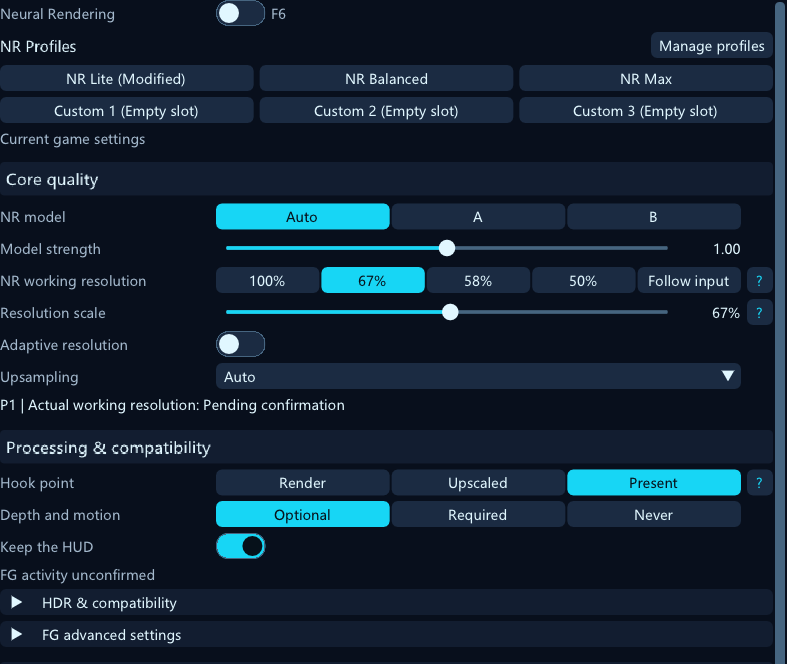
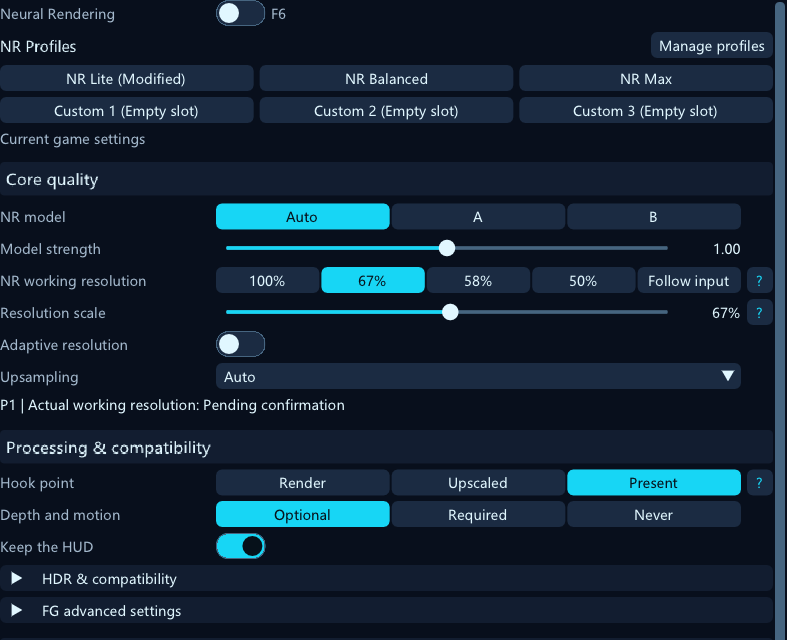
Simplify FG status and center summary metrics

diff --git a/tests/adaptive_ui_cases.hpp b/tests/adaptive_ui_cases.hpp
@@ -89,11 +89,19 @@
     check(locate("153").Min.y > fps.Min.y && locate("6.6ms").Min.y > gpu.Min.y
               && locate("4x").Min.y > fg.Min.y,
           "each compact metric places its value on the second line");
+    check(std::abs(locate("153").GetCenter().x - fps.GetCenter().x) < 1.f
+              && std::abs(locate("6.6ms").GetCenter().x - gpu.GetCenter().x) < 1.f
+              && std::abs(locate("4x").GetCenter().x - fg.GetCenter().x) < 1.f,
+          "metric labels and values share each column's center");
     if (width >= 340.f) {
       check(fps.Min.x < gpu.Min.x && gpu.Min.x < fg.Min.x && std::abs(fps.Min.y - fg.Min.y) < 1.f,
             "wide and game-sized 340 px status fit three ordered metric columns");
+      const auto first = std::ranges::find_if(rendered_text, [](const auto& item) { return item.text == "FPS"; });
+      const auto& content = first->window->WorkRect;
+      check(std::abs((fps.GetCenter().x - content.Min.x) - (content.Max.x - fg.GetCenter().x)) < 1.f,
+            "three metric columns leave symmetric space at the content edges");
     } else {
-      check(fps.Min.x < gpu.Min.x && std::abs(fps.Min.x - fg.Min.x) < 1.f && fg.Min.y > fps.Min.y,
+      check(fps.Min.x < gpu.Min.x && std::abs(fps.GetCenter().x - fg.GetCenter().x) < 1.f && fg.Min.y > fps.Min.y,
             "narrow status wraps the third metric onto a second row");
     }
   }
@@ -131,6 +139,35 @@
       .observed_multiplier = 3.99});
   check(observed.fg == "4x" && observed.fps == "153", "observed near-integer FG and output FPS share concise values");
   check(observed.fg_tip.find("Observed") != std::string::npos, "FG estimation and source details remain discoverable in its tooltip");
+  const auto saved_route = runtime::ui_fg_route;
+  const auto saved_hook = runtime::hook_point.load();
+  const bool saved_vulkan = runtime::vulkan_present_seen.load();
+  const bool saved_unusable = runtime::present_unusable.load();
+  runtime::hook_point = runtime::kHookPresent;
+  runtime::vulkan_present_seen = false;
+  runtime::present_unusable = false;
+  runtime::ui_fg_route.route = ui::FgRoute::kBeforeFg;
+  runtime::ui_fg_route.previous.multiplier = 1;
+  fg_route_fixture = true;
+  frame(); frame();
+  check(rendered_text.empty(), "normal Pre-FG route adds no duplicate status row beside the shared SDK FG value");
+  fg_route_detailed = true;
+  frame(); frame();
+  check(std::ranges::any_of(rendered_text, [](const auto& item) { return item.text == ui::Tr(ui::text::kFgBefore); })
+            && std::ranges::none_of(rendered_text, [](const auto& item) {
+              return item.text == ui::Tr(ui::text::kFgBeforeUnknown) || item.text == ui::Tr(ui::text::kFgUnknownMultiplierTip);
+            }),
+        "detailed Pre-FG diagnostics retain the route without contradicting reliable SDK multiplier evidence");
+  runtime::ui_fg_route.route = ui::FgRoute::kFallbackPresent;
+  fg_route_detailed = false;
+  frame(); frame();
+  check(std::ranges::any_of(rendered_text, [](const auto& item) { return item.text == ui::Tr(ui::text::kFgFallbackShort); }),
+        "compact Pre-FG fallback warnings remain visible");
+  fg_route_fixture = false;
+  runtime::ui_fg_route = saved_route;
+  runtime::hook_point = saved_hook;
+  runtime::vulkan_present_seen = saved_vulkan;
+  runtime::present_unusable = saved_unusable;
   {
     std::unique_lock lock(rate::internal::state.mutex);
     rate::internal::state.stream = saved_stream;

diff --git a/dlssnr.hpp b/dlssnr.hpp
@@ -25261,14 +25261,12 @@ inline bool SavePresentRestoreScope(present_restore_scope::Scope scope) {
   return true;
 }
 
-// A stable single line carries the conclusion; full explanations are available
-// on hover and in Diagnostics. Multi-Pass normally needs only the cost reminder.
+// The shared summary shows FG state. Keep route warnings, diagnostic details,
+// and the multi-pass cost reminder beside the execution controls.
 inline void DrawFgRoute(bool stacking = false, bool detailed = false) {
   const auto route = ui_fg_route.route;
-  const bool declared = fg::xefg::OwnsStream()
-                        || native_fg_declaration.load() == NativeFgDeclaration::kOn;
   const char* message = ui::text::kFgUnknown;
-  const char* brief = declared ? ui::text::kFgDeclared : ui::text::kFgStatusUnknown;
+  const char* brief = ui::text::kFgStatusUnknown;
   bool warning = false;
   if (hook_point.load() != kHookPresent) {
     message = ui::text::kFgOtherStage;
@@ -25276,7 +25274,6 @@ inline void DrawFgRoute(bool stacking = false, bool detailed = false) {
     switch (route) {
       case ui::FgRoute::kBeforeFg:
         message = ui::text::kFgBefore;
-        brief = ui_fg_route.previous.multiplier > 1 ? ui::text::kFgBeforeShort : ui::text::kFgBeforeUnknown;
         break;
       case ui::FgRoute::kEveryPresent:
         message = ui::text::kFgEvery;
@@ -25318,23 +25315,21 @@ inline void DrawFgRoute(bool stacking = false, bool detailed = false) {
   if (stacking && !warning) {
     brief = ui::text::kStackCost;
   }
+  // The shared summary owns FG state and multiplier; keep route warnings and
+  // multi-pass cost guidance here without a second multiplier verdict.
+  if (!detailed && !warning && !stacking) {
+    return;
+  }
   ImGui::PushID("fg_route");
   ui::StyleScope tone;
   tone.Color(ImGuiCol_Text, warning ? ui::CurrentTheme().warn : ui::CurrentTheme().text_secondary);
   if (detailed) {
     ImGui::TextWrapped("%s", ui::Tr(message));
-    if (ui_fg_route.previous.multiplier <= 1 && (declared || route == ui::FgRoute::kBeforeFg)) {
-      ImGui::TextWrapped("%s", ui::Tr(ui::text::kFgUnknownMultiplierTip));
-    }
   } else {
     const bool link = warning && ImGui::GetContentRegionAvail().x > ImGui::GetFontSize() * 16.f;
     const float reserve = link ? ImGui::CalcTextSize(ui::Tr(ui::text::kDiagnostics)).x + ImGui::GetStyle().ItemSpacing.x : 0.f;
     ImGui::TextUnformatted(ui::Ellipsize(ui::Tr(brief), ImGui::GetContentRegionAvail().x - reserve).c_str());
-    if (ui_fg_route.previous.multiplier <= 1) {
-      ui::ItemTooltip("%s\n%s", ui::Tr(message), ui::Tr(ui::text::kFgUnknownMultiplierTip));
-    } else {
-      ui::ItemTooltip("%s", ui::Tr(message));
-    }
+    ui::ItemTooltip("%s", ui::Tr(message));
     if (link) {
       ImGui::SameLine();
       if (ImGui::TextLink(ui::Tr(ui::text::kDiagnostics))) {

diff --git a/ui/widgets.hpp b/ui/widgets.hpp
@@ -239,9 +239,14 @@ struct StatusSummaryFields {
 };
 
 inline void DrawSummaryMetric(const char* label, const std::string& value, const char* tip, float width) {
+  const float left = ImGui::GetCursorPosX();
+  const auto title = Ellipsize(Tr(label), width);
+  const auto value_text = Ellipsize(value.empty() ? "—" : value.c_str(), width);
   ImGui::BeginGroup();
-  ImGui::TextUnformatted(Ellipsize(Tr(label), width).c_str());
-  ImGui::TextUnformatted(Ellipsize(value.empty() ? "—" : value.c_str(), width).c_str());
+  ImGui::SetCursorPosX(left + (width - ImGui::CalcTextSize(title.c_str()).x) * .5f);
+  ImGui::TextUnformatted(title.c_str());
+  ImGui::SetCursorPosX(left + (width - ImGui::CalcTextSize(value_text.c_str()).x) * .5f);
+  ImGui::TextUnformatted(value_text.c_str());
   ImGui::EndGroup();
   ItemTooltip("%s\n%s", Tr(label), tip != nullptr ? Tr(tip) : "");
 }

diff --git a/tests/ui_menu_tests.cpp b/tests/ui_menu_tests.cpp
@@ -450,6 +450,8 @@ int main() {
     bool adaptive_editor_fixture = false;
     bool adaptive_pass_fixture = false;
     bool summary_fixture = false;
+    bool fg_route_fixture = false;
+    bool fg_route_detailed = false;
     ui::StatusSummaryFields summary_fields;
     bool hud_fixture = false;
     bool independent_hud_fixture = false;
@@ -476,7 +478,9 @@ int main() {
         ImGui::PushClipRect(ImVec2(-10.f, -10.f), ImVec2(-1.f, -1.f), true);
       }
       const auto panel_start = std::chrono::steady_clock::now();
-      if (summary_fixture) {
+      if (fg_route_fixture) {
+        runtime::DrawFgRoute(false, fg_route_detailed);
+      } else if (summary_fixture) {
         ui::DrawStatusSummary(ui::StatusCard{}, 0, summary_fields);
       } else if (adaptive_editor_fixture) {
         const auto* saved_view = runtime::ui_monitor_view;
